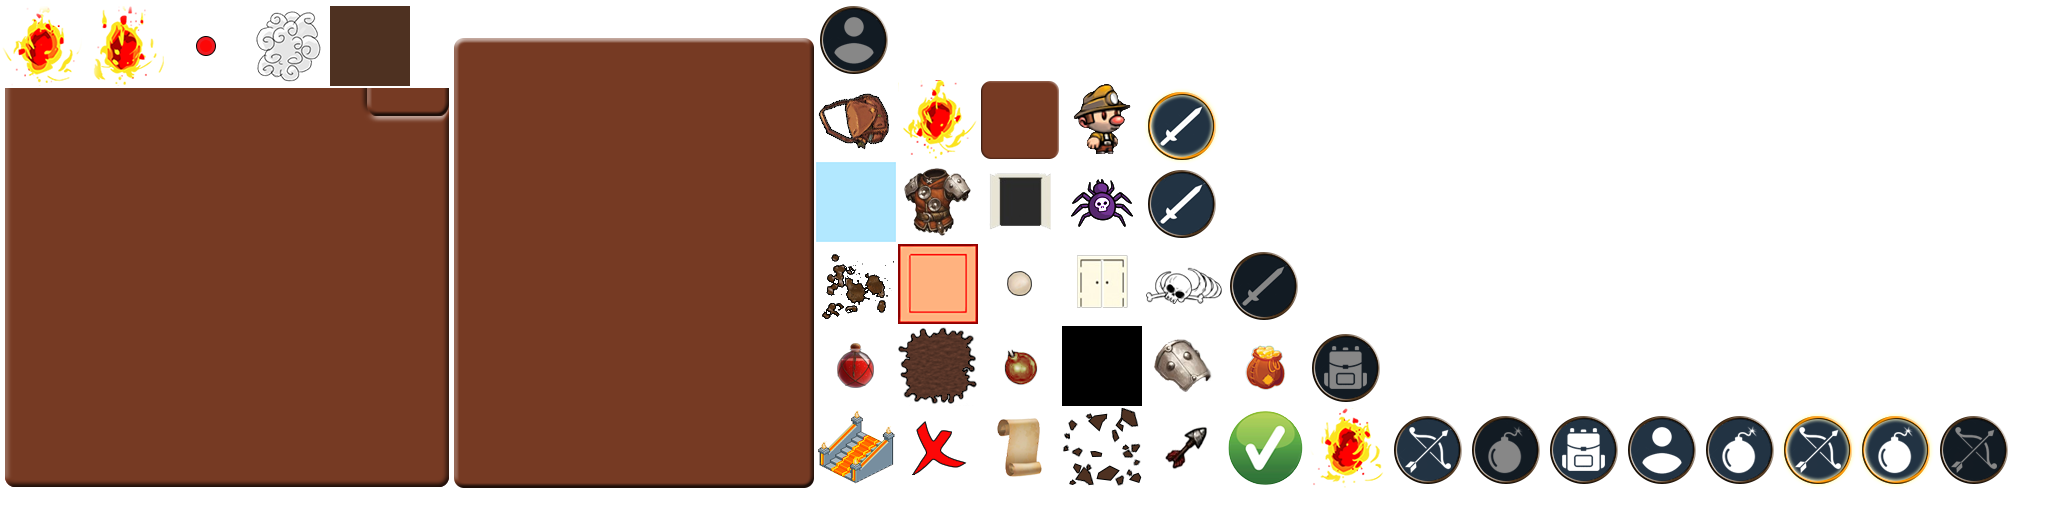
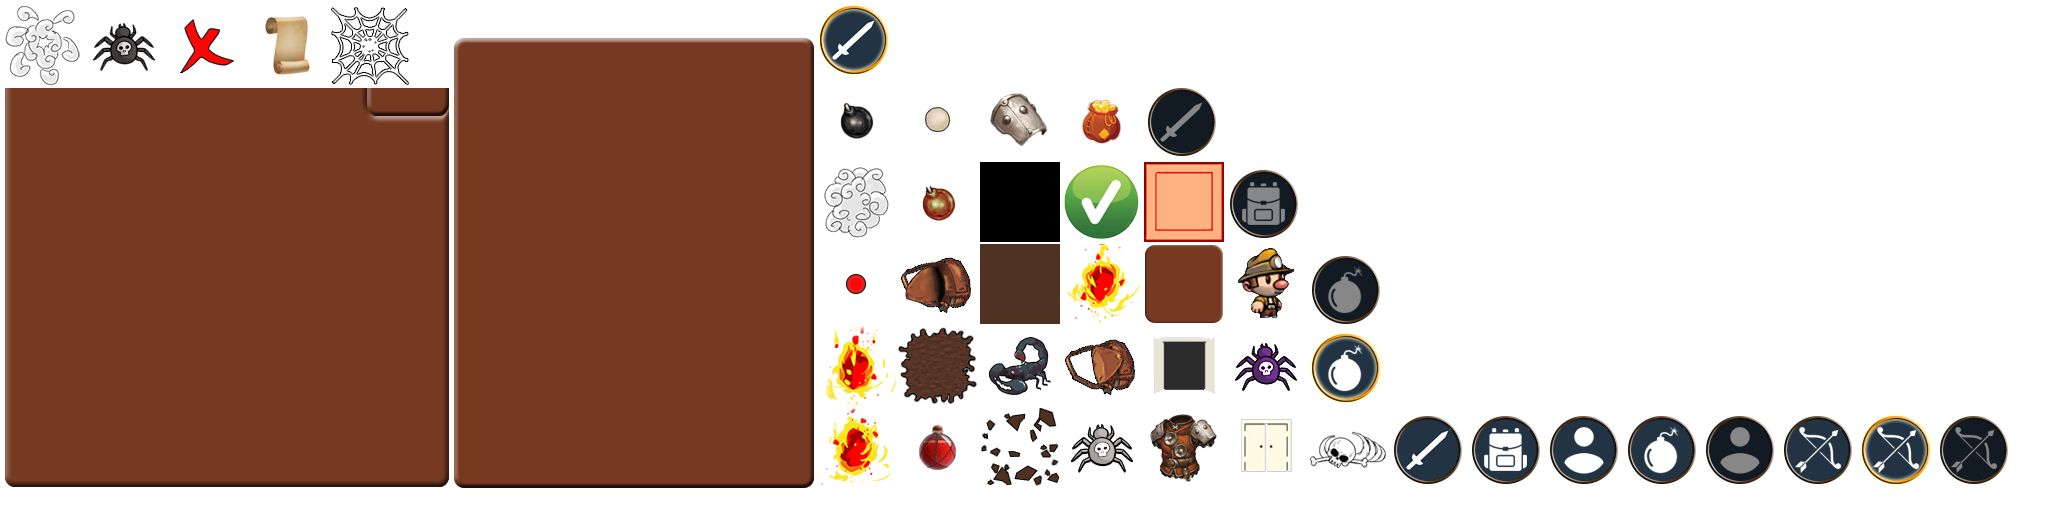
[Issue#30] Added opened and closed textures for lootables.

diff --git a/core/src/com/dokkaebistudio/tacticaljourney/enums/LootableEnum.java b/core/src/com/dokkaebistudio/tacticaljourney/enums/LootableEnum.java
@@ -3,20 +3,23 @@
  */
 package com.dokkaebistudio.tacticaljourney.enums;
 
+import com.badlogic.gdx.graphics.g2d.TextureAtlas.AtlasRegion;
+import com.dokkaebistudio.tacticaljourney.Assets;
+
 /**
  * @author Callil
  *
  */
 public enum LootableEnum {
 	
-	BONES("Old bones", 2) {
+	BONES("Old bones", 2, Assets.remains_bones, Assets.remains_bones_opened) {
 		@Override
 		public String getDescription() {
 			return "The remaining bones of a humanoid being. This could be you in like a hundred years.";
 		}
 	},
 	
-	SATCHEL("Adventurer's lost satchel", 3) {
+	SATCHEL("Adventurer's lost satchel", 3, Assets.remains_satchel, Assets.remains_satchel_opened) {
 		@Override
 		public String getDescription() {
 			return "A satchel in an advanced state of decay. It looks like it has been lost here for quite a long time, but it could still contain something useful.";
@@ -29,10 +32,15 @@ public enum LootableEnum {
 	/** The number of turns it takes to open. */
 	private int nbTurnsToOpen;
 	
+	private AtlasRegion closedTexture;
+	private AtlasRegion openedTexture;
 	
-	private LootableEnum(String label, int nbTurnsToOpen) {
+	
+	private LootableEnum(String label, int nbTurnsToOpen, AtlasRegion closedTexture, AtlasRegion openedTexture) {
 		this.setLabel(label);
 		this.setNbTurnsToOpen(nbTurnsToOpen);
+		this.setClosedTexture(closedTexture);
+		this.setOpenedTexture(openedTexture);
 	}
 
 	/**
@@ -61,6 +69,22 @@ public enum LootableEnum {
 
 	public void setNbTurnsToOpen(int nbTurnsToOpen) {
 		this.nbTurnsToOpen = nbTurnsToOpen;
+	}
+
+	public AtlasRegion getClosedTexture() {
+		return closedTexture;
+	}
+
+	public void setClosedTexture(AtlasRegion closedTexture) {
+		this.closedTexture = closedTexture;
+	}
+
+	public AtlasRegion getOpenedTexture() {
+		return openedTexture;
+	}
+
+	public void setOpenedTexture(AtlasRegion openedTexture) {
+		this.openedTexture = openedTexture;
 	}
 	
 }

diff --git a/core/src/com/dokkaebistudio/tacticaljourney/factory/EntityFactory.java b/core/src/com/dokkaebistudio/tacticaljourney/factory/EntityFactory.java
@@ -699,7 +699,7 @@ public final class EntityFactory {
 
     	LootableComponent lootComponent = engine.createComponent(LootableComponent.class);
     	lootComponent.setType(LootableEnum.BONES);
-    	lootComponent.setLootableState(LootableStateEnum.CLOSED);
+    	lootComponent.setLootableState(LootableStateEnum.CLOSED, null);
     	remainsEntity.add(lootComponent);
     	
     	DestructibleComponent destructibleCompo = engine.createComponent(DestructibleComponent.class);
@@ -726,12 +726,13 @@ public final class EntityFactory {
     	remainsEntity.add(movableTilePos);
     	
     	SpriteComponent spriteCompo = engine.createComponent(SpriteComponent.class);
-    	Sprite s = new Sprite(Assets.remains_satchel);
+    	Sprite s = new Sprite(LootableEnum.SATCHEL.getClosedTexture());
     	spriteCompo.setSprite(s);
     	remainsEntity.add(spriteCompo);
     	
     	LootableComponent lootComponent = engine.createComponent(LootableComponent.class);
     	lootComponent.setType(LootableEnum.SATCHEL);
+    	lootComponent.setLootableState(LootableStateEnum.CLOSED, null);
     	remainsEntity.add(lootComponent);
     	
     	DestructibleComponent destructibleCompo = engine.createComponent(DestructibleComponent.class);

diff --git a/core/src/com/dokkaebistudio/tacticaljourney/components/LootableComponent.java b/core/src/com/dokkaebistudio/tacticaljourney/components/LootableComponent.java
@@ -5,8 +5,10 @@ import java.util.List;
 
 import com.badlogic.ashley.core.Component;
 import com.badlogic.ashley.core.Entity;
+import com.badlogic.gdx.graphics.g2d.TextureAtlas.AtlasRegion;
 import com.badlogic.gdx.utils.Pool.Poolable;
 import com.dokkaebistudio.tacticaljourney.enums.LootableEnum;
+import com.dokkaebistudio.tacticaljourney.util.Mappers;
 
 /**
  * Indicate that this entity can be looted by the player.
@@ -97,8 +99,13 @@ public class LootableComponent implements Component, Poolable {
 	}
 
 
-	public void setLootableState(LootableStateEnum lootableState) {
+	public void setLootableState(LootableStateEnum lootableState, Entity lootable) {
 		this.lootableState = lootableState;
+		
+		if (lootable != null) {
+			AtlasRegion newRegion = lootableState == LootableStateEnum.CLOSED ? type.getClosedTexture() : type.getOpenedTexture();
+			Mappers.spriteComponent.get(lootable).getSprite().setRegion(newRegion);
+		}
 	}
 
 	public List<Entity> getStandByItems() {

diff --git a/core/src/com/dokkaebistudio/tacticaljourney/systems/PlayerMoveSystem.java b/core/src/com/dokkaebistudio/tacticaljourney/systems/PlayerMoveSystem.java
@@ -6,6 +6,7 @@ import com.badlogic.ashley.core.Entity;
 import com.badlogic.ashley.core.Family;
 import com.badlogic.ashley.systems.IteratingSystem;
 import com.badlogic.gdx.Gdx;
+import com.badlogic.gdx.graphics.g2d.Sprite;
 import com.badlogic.gdx.math.Vector2;
 import com.badlogic.gdx.math.Vector3;
 import com.dokkaebistudio.tacticaljourney.InputSingleton;
@@ -260,7 +261,7 @@ public class PlayerMoveSystem extends IteratingSystem implements RoomSystem {
 			inventoryComponent.setDisplayMode(InventoryDisplayModeEnum.LOOT);
 			inventoryComponent.setTurnsToWaitBeforeLooting(null);
 			LootableComponent lootableComponent = Mappers.lootableComponent.get(inventoryComponent.getLootableEntity());
-			lootableComponent.setLootableState(LootableStateEnum.OPENED);
+			lootableComponent.setLootableState(LootableStateEnum.OPENED, inventoryComponent.getLootableEntity());
 		} else {
 			
 			//TODO

diff --git a/core/src/com/dokkaebistudio/tacticaljourney/Assets.java b/core/src/com/dokkaebistudio/tacticaljourney/Assets.java
@@ -138,7 +138,9 @@ public class Assets {
 	// Containers
 	
 	public static AtlasRegion remains_bones;
+	public static AtlasRegion remains_bones_opened;
 	public static AtlasRegion remains_satchel;
+	public static AtlasRegion remains_satchel_opened;
 
 	
 	//******
@@ -279,7 +281,9 @@ public class Assets {
 		// Containers
 		
 		remains_bones = Assets.getTexture("remains_bones");
+		remains_bones_opened = Assets.getTexture("remains_bones_opened");
 		remains_satchel = Assets.getTexture("remains_satchel");
+		remains_satchel_opened = Assets.getTexture("remains_satchel_opened");
 
 		
 		//******
